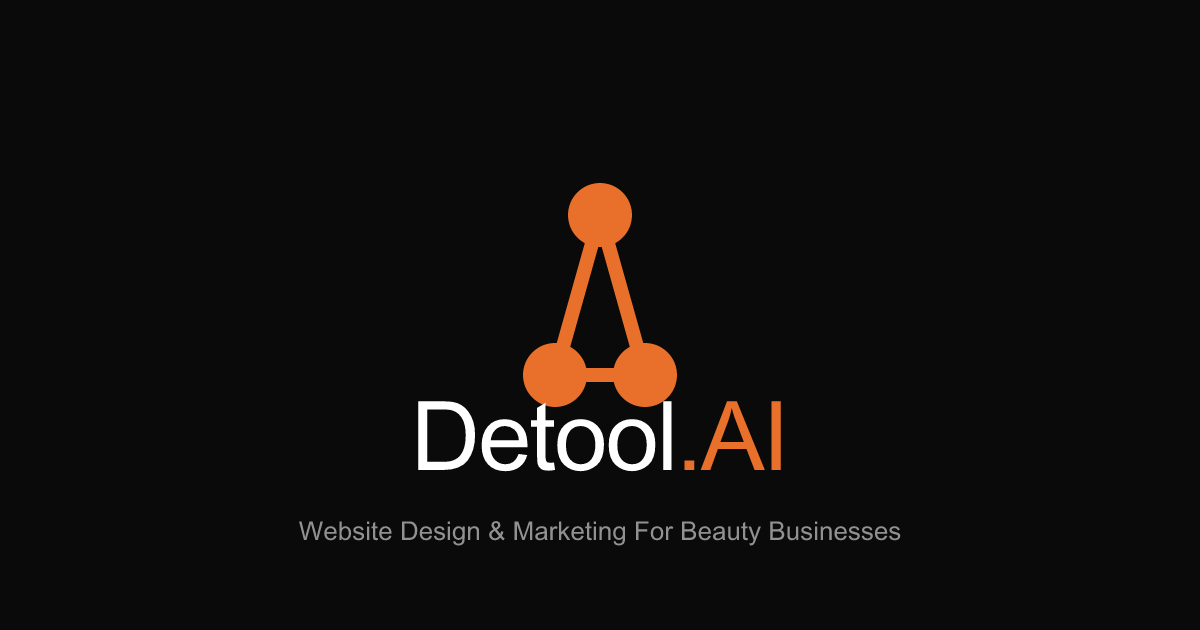
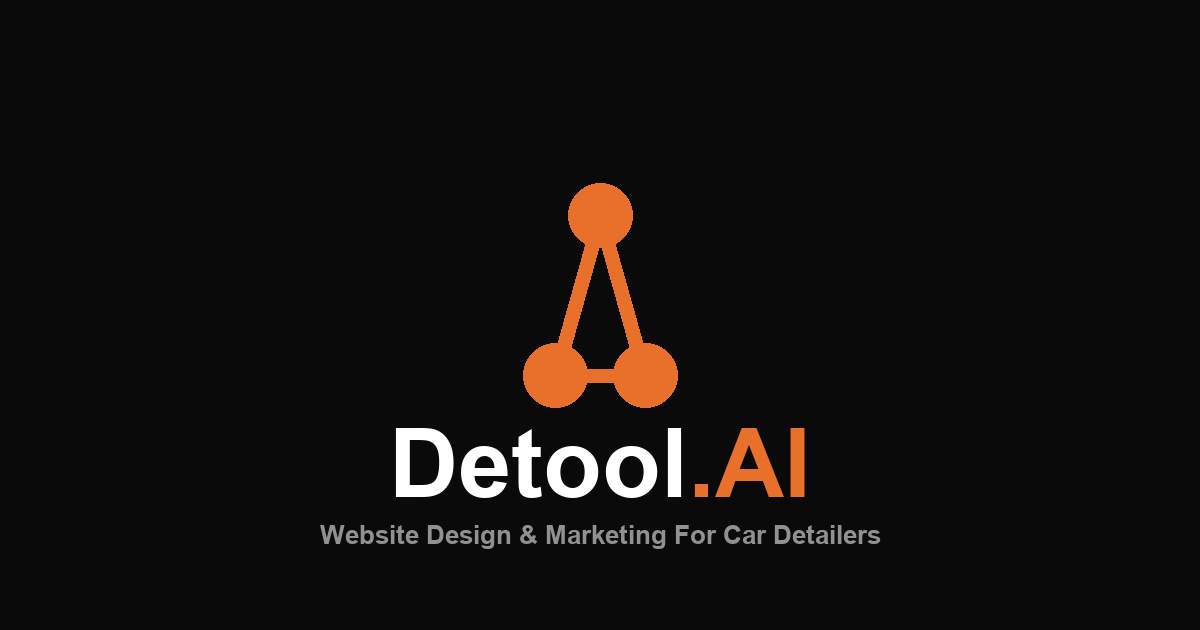
Stop the www/apex redirect loop and refresh the share image.
Vercel already sends detool.ai to www.detool.ai, so the old JS redirect
back to the apex caused an infinite reload. Also update the OG image
copy to car detailers.

Changed region(s): [[0.2467, 0.6333, 0.74, 0.8746]]

diff --git a/index.html b/index.html
@@ -46,26 +46,6 @@
   </head>
 
   <body>
-    <script>
-      (function () {
-        if (window.location.hostname === "www.detool.ai") {
-          window.location.replace(
-            "https://detool.ai" + window.location.pathname + window.location.search + window.location.hash
-          );
-          return;
-        }
-        window.addEventListener(
-          "error",
-          function (event) {
-            var target = event.target;
-            if (window.__detoolReloaded || !target || target.tagName !== "SCRIPT") return;
-            window.__detoolReloaded = true;
-            window.location.reload();
-          },
-          true
-        );
-      })();
-    </script>
     <div id="root"></div>
     <script type="module" src="/src/main.tsx"></script>
   </body>
